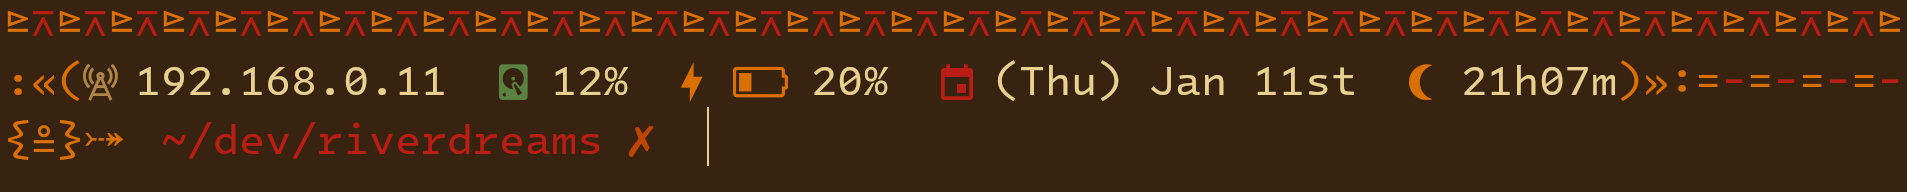
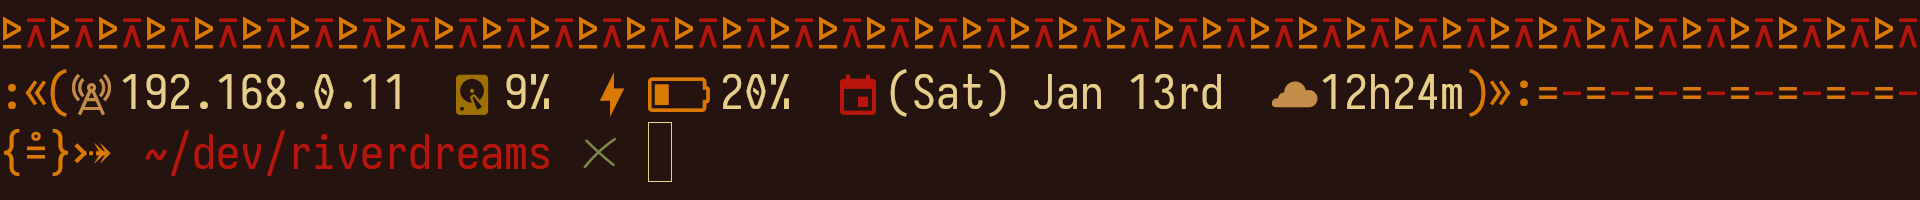
update preview to use flamerial v5.0.0

Changed region(s): [[0.0, 0.3125, 1.0, 0.5938], [0.0, 0.0625, 1.0, 0.25], [0.0, 0.625, 0.3713, 0.875]]

diff --git a/README.md b/README.md
@@ -2,15 +2,19 @@
 
 ## About
 
-It is a multi-line ZSH theme for Linux with a tribal inspired style, designed to
-help you stay motivated while developing your dream projects.
+A multi-line ZSH theme for Linux with a tribal inspired style, designed to help
+you stay motivated while developing your dream projects.
 
-<img align="center" src="preview.png" />
+<p align="center">
+  <img src="preview.png" />
+</p>
 
 <p align="center"><strong>Caption:</strong> a preview of the riverdreams theme
 applied on zsh. The terminal theme used is
 <a href="https://github.com/skippyr/flamerial">flamerial</a> and font is
-<a href="https://github.com/intel/intel-one-mono">intel-one-mono</a>.</p>
+<a href="https://github.com/be5invis/Iosevka">Iosevka SS08</a>.</p>
+
+
 
 Its prompt displays:
 
